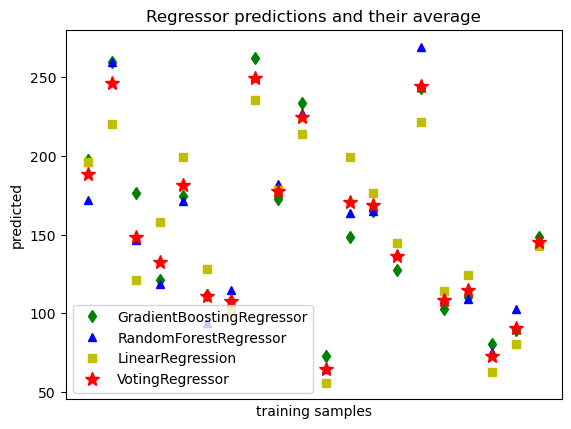
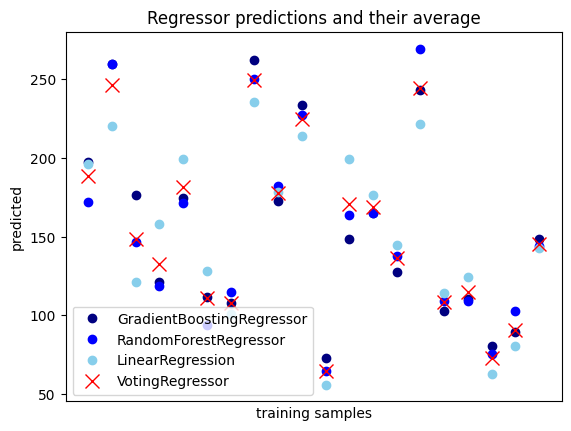
minor ensemble tweaks

diff --git a/_episodes/04-ensemble-methods.md b/_episodes/04-ensemble-methods.md
@@ -103,6 +103,8 @@ If we think back to the classification session, the decision tree trained using 
 
 ~~~
 from sklearn.inspection import DecisionBoundaryDisplay
+import matplotlib.pyplot as plt
+
 f1 = feature_names[0]
 f2 = feature_names[3]
 
@@ -244,7 +246,7 @@ Lets plot the first 20 predictions to see what that looks like.
 ~~~
 plt.figure()
 
-plt.plot(pred[:20], "gd", label="RandomForestRegressor") # plot first 20 predictions to make figure clearer.
+plt.plot(pred[:20],  "o", color="navy", label="RandomForestRegressor") # plot first 20 predictions to make figure clearer.
 
 plt.tick_params(axis="x", which="both", bottom=False, top=False, labelbottom=False)
 plt.ylabel("predicted")
@@ -301,10 +303,10 @@ linear_pred = linear_reg.predict(X_test_20)
 voting_pred = voting_reg.predict(X_test_20)
 
 plt.figure()
-plt.plot(rf_pred, "gd", label="GradientBoostingRegressor")
-plt.plot(gb_pred, "b^", label="RandomForestRegressor")
-plt.plot(linear_pred, "ys", label="LinearRegression")
-plt.plot(voting_pred, "r*", ms=10, label="VotingRegressor")
+plt.plot(rf_pred,  "o", color="navy", label="GradientBoostingRegressor")
+plt.plot(gb_pred,  "o", color="blue", label="RandomForestRegressor")
+plt.plot(linear_pred,  "o", color="skyblue", label="LinearRegression")
+plt.plot(voting_pred,  "x", color="red", ms=10, label="VotingRegressor")
 
 plt.tick_params(axis="x", which="both", bottom=False, top=False, labelbottom=False)
 plt.ylabel("predicted")
